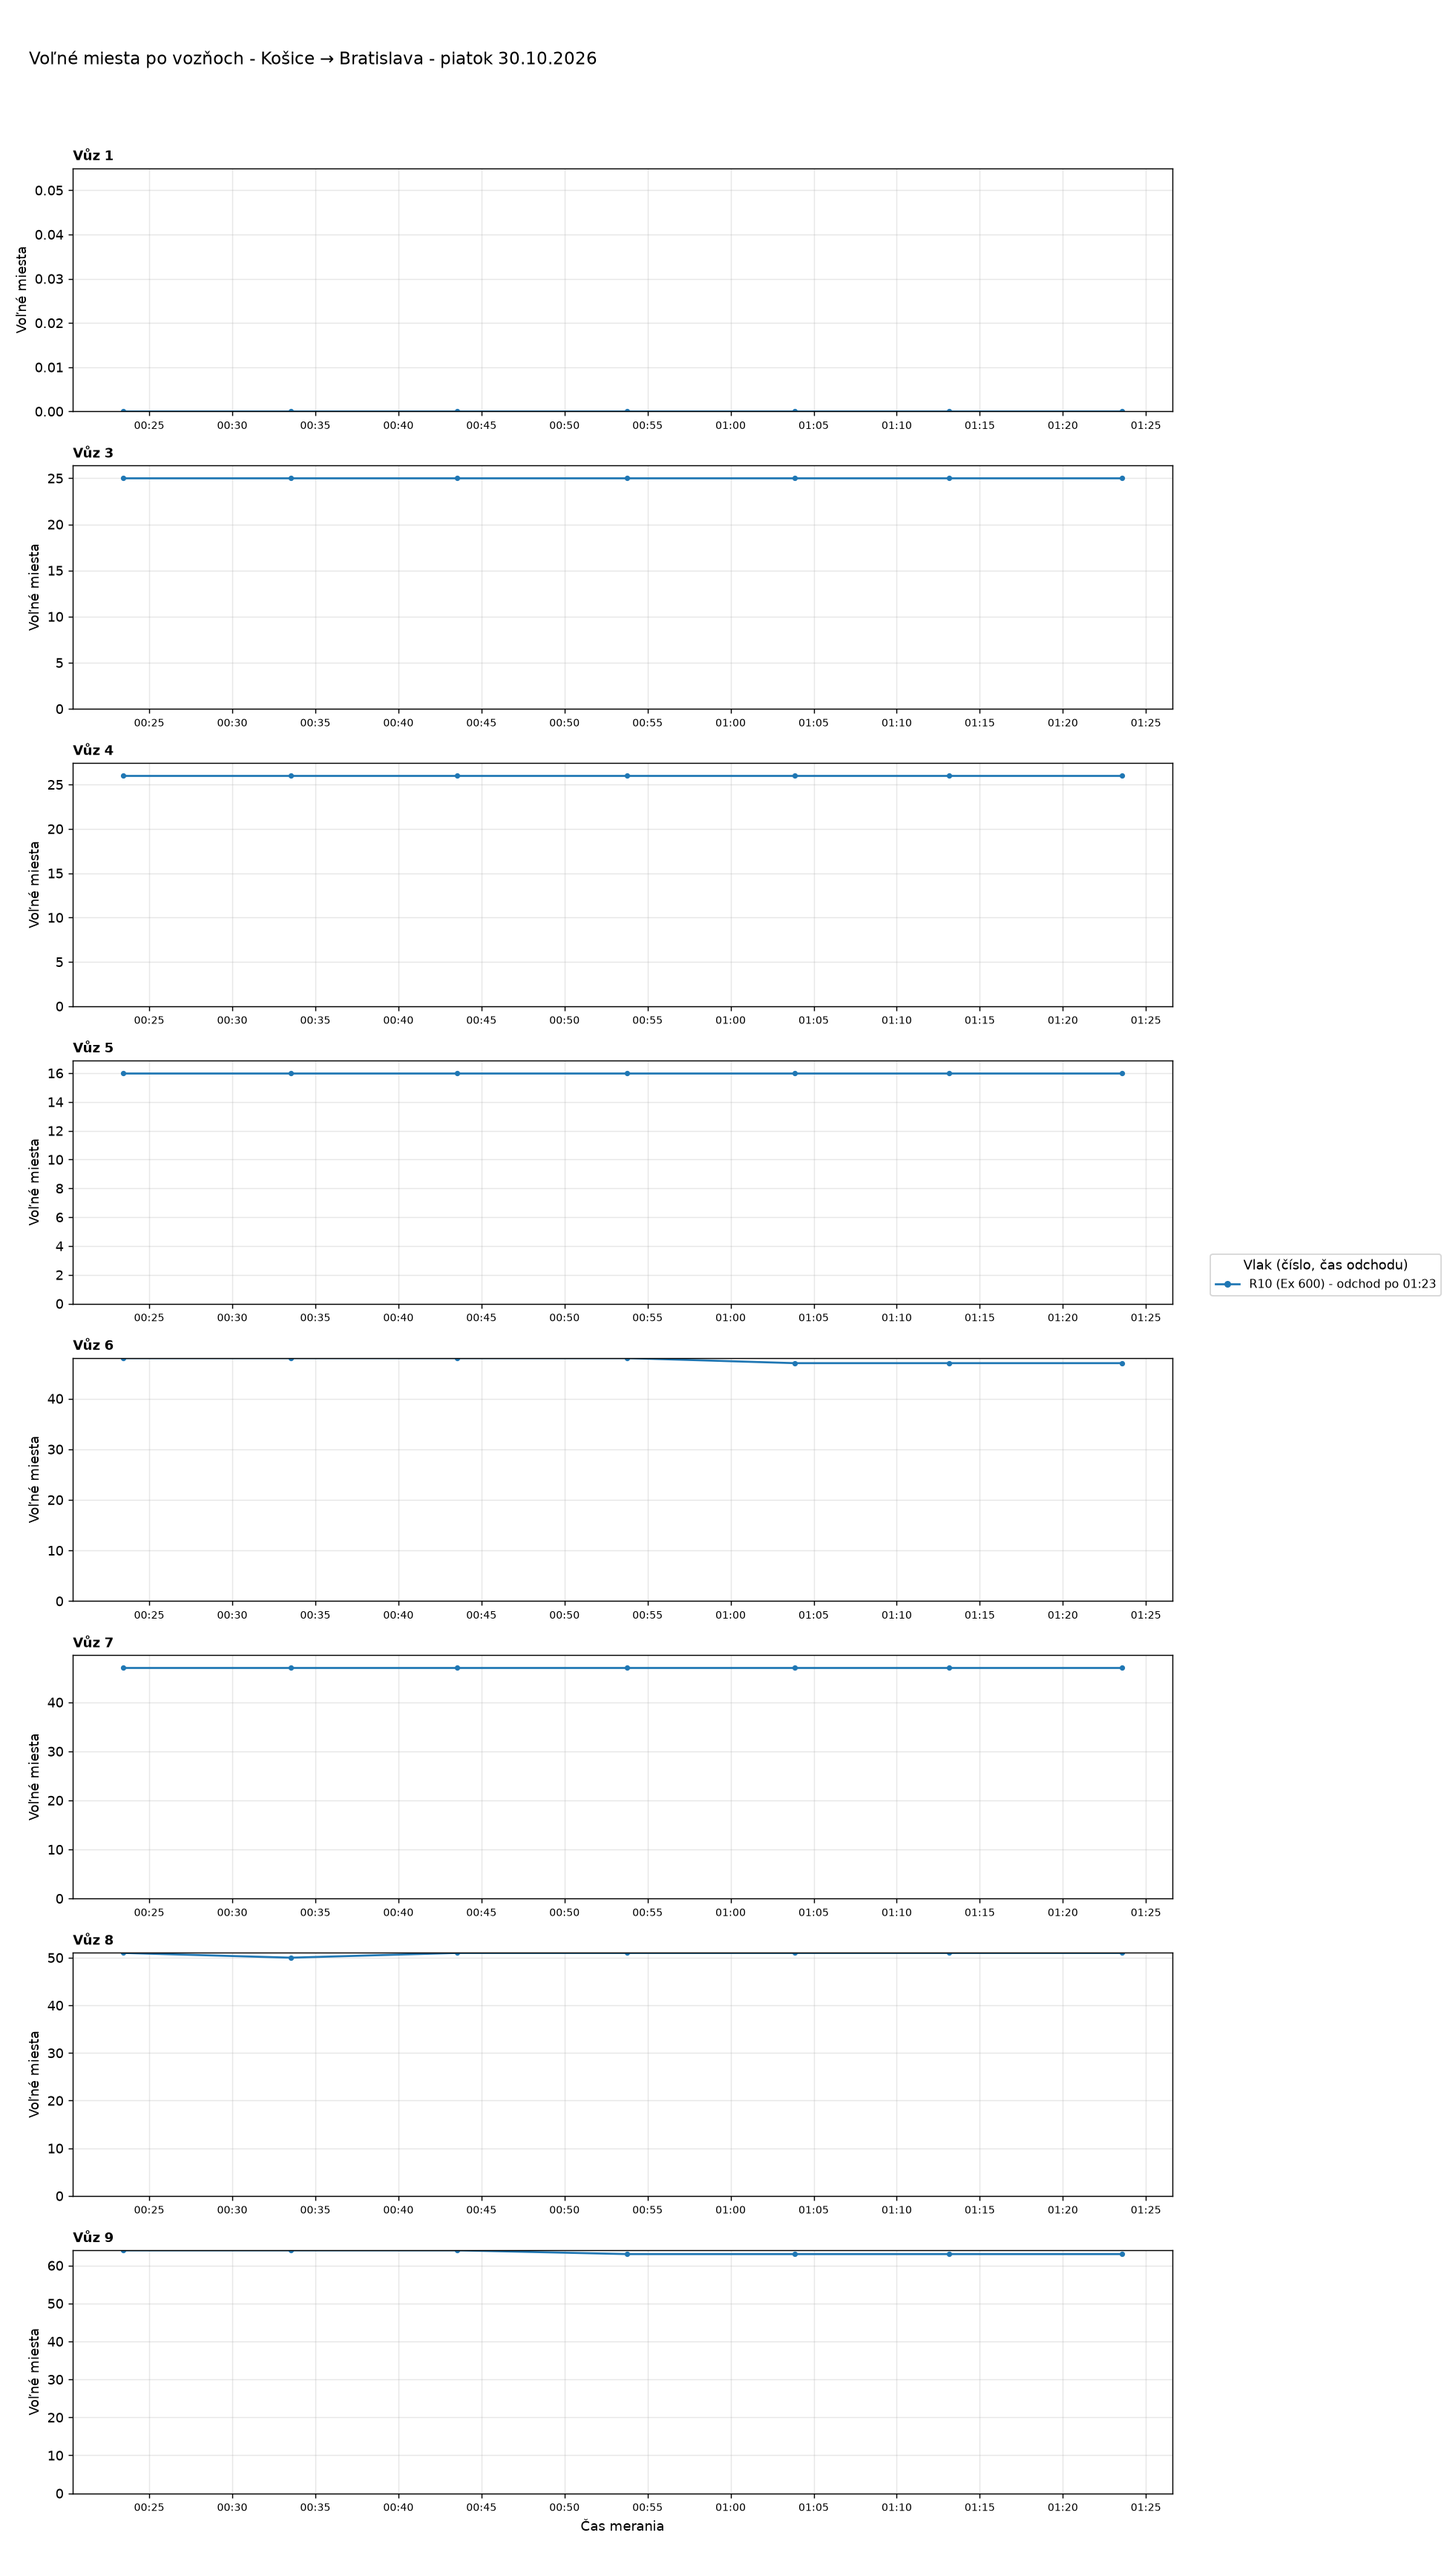
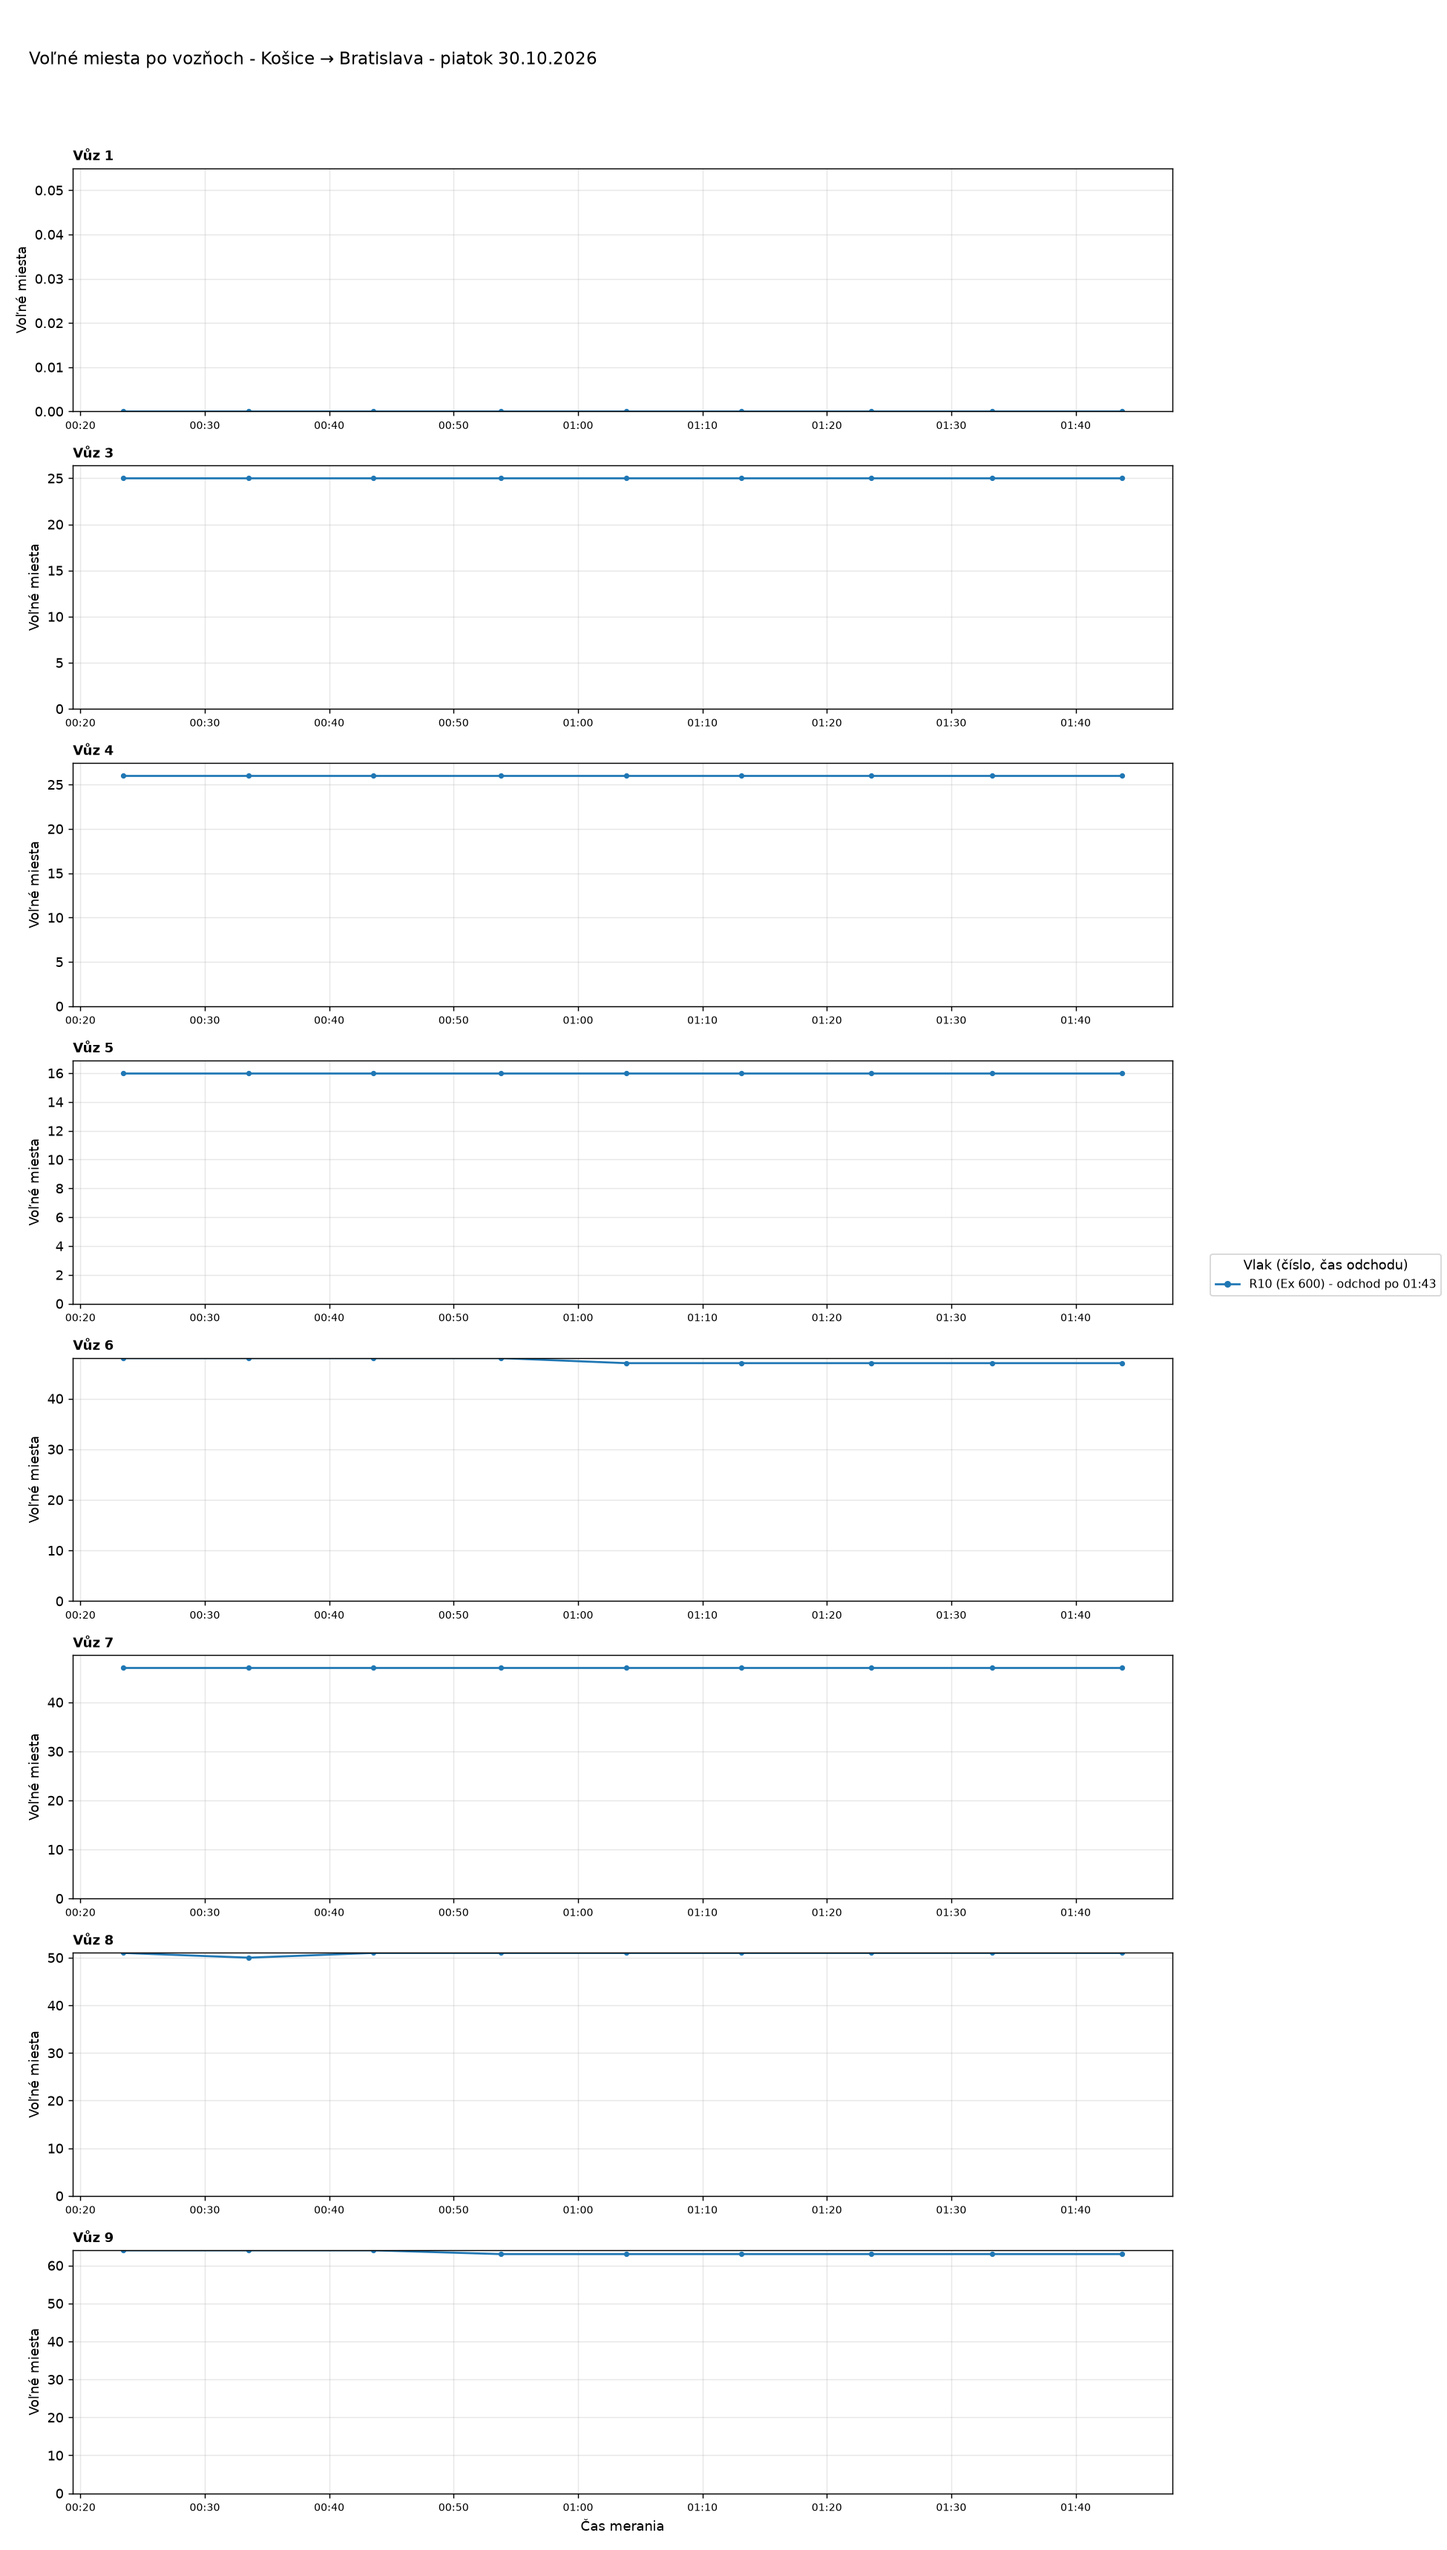
Aktualizácia grafov 2026-10-30 02:03

diff --git a/index.html b/index.html
@@ -37,7 +37,7 @@ details.trasa>summary{cursor:pointer;font-weight:600;font-size:1.1rem;padding:8p
 <body>
 <main>
 <h1>Voľné miesta vo vlakoch</h1>
-<p class="muted">Posledné meranie: 30.10.2026 01:23 ·
+<p class="muted">Posledné meranie: 30.10.2026 01:52 ·
 <a href="data/obsadenost_data.csv">stiahnuť dáta (CSV)</a></p>
 <nav class="nav"><a href="#suhrn">Súhrn</a><a href="#statistiky">Štatistiky</a><a href="#historia">História grafov</a></nav>
 
@@ -46,9 +46,9 @@ details.trasa>summary{cursor:pointer;font-weight:600;font-size:1.1rem;padding:8p
 <div class="tablewrap"><table>
 <thead><tr><th>Deň</th><th>Trasa</th><th>Meraní</th><th>Vlakov</th><th>Čas meraní</th></tr></thead>
 <tbody>
-<tr><td><a href="#dBA-VR-2026-10-30">piatok 30.10.2026</a></td><td>Bratislava → Vrútky</td><td>6</td><td>1</td><td>00:31-01:21</td></tr>
-<tr><td><a href="#dBA-KE-2026-10-30">piatok 30.10.2026</a></td><td>Bratislava → Košice</td><td>6</td><td>1</td><td>00:22-01:22</td></tr>
-<tr><td><a href="#dKE-BA-2026-10-30">piatok 30.10.2026</a></td><td>Košice → Bratislava</td><td>7</td><td>1</td><td>00:23-01:23</td></tr>
+<tr><td><a href="#dBA-VR-2026-10-30">piatok 30.10.2026</a></td><td>Bratislava → Vrútky</td><td>8</td><td>1</td><td>00:31-01:51</td></tr>
+<tr><td><a href="#dBA-KE-2026-10-30">piatok 30.10.2026</a></td><td>Bratislava → Košice</td><td>9</td><td>1</td><td>00:22-01:52</td></tr>
+<tr><td><a href="#dKE-BA-2026-10-30">piatok 30.10.2026</a></td><td>Košice → Bratislava</td><td>9</td><td>1</td><td>00:23-01:43</td></tr>
 <tr><td><a href="#dBA-VR-2026-10-29">štvrtok 29.10.2026</a></td><td>Bratislava → Vrútky</td><td>84</td><td>14</td><td>00:01-23:31</td></tr>
 <tr><td><a href="#dVR-BA-2026-10-29">štvrtok 29.10.2026</a></td><td>Vrútky → Bratislava</td><td>75</td><td>15</td><td>02:42-21:02</td></tr>
 <tr><td><a href="#dBA-KE-2026-10-29">štvrtok 29.10.2026</a></td><td>Bratislava → Košice</td><td>76</td><td>13</td><td>00:03-23:22</td></tr>
